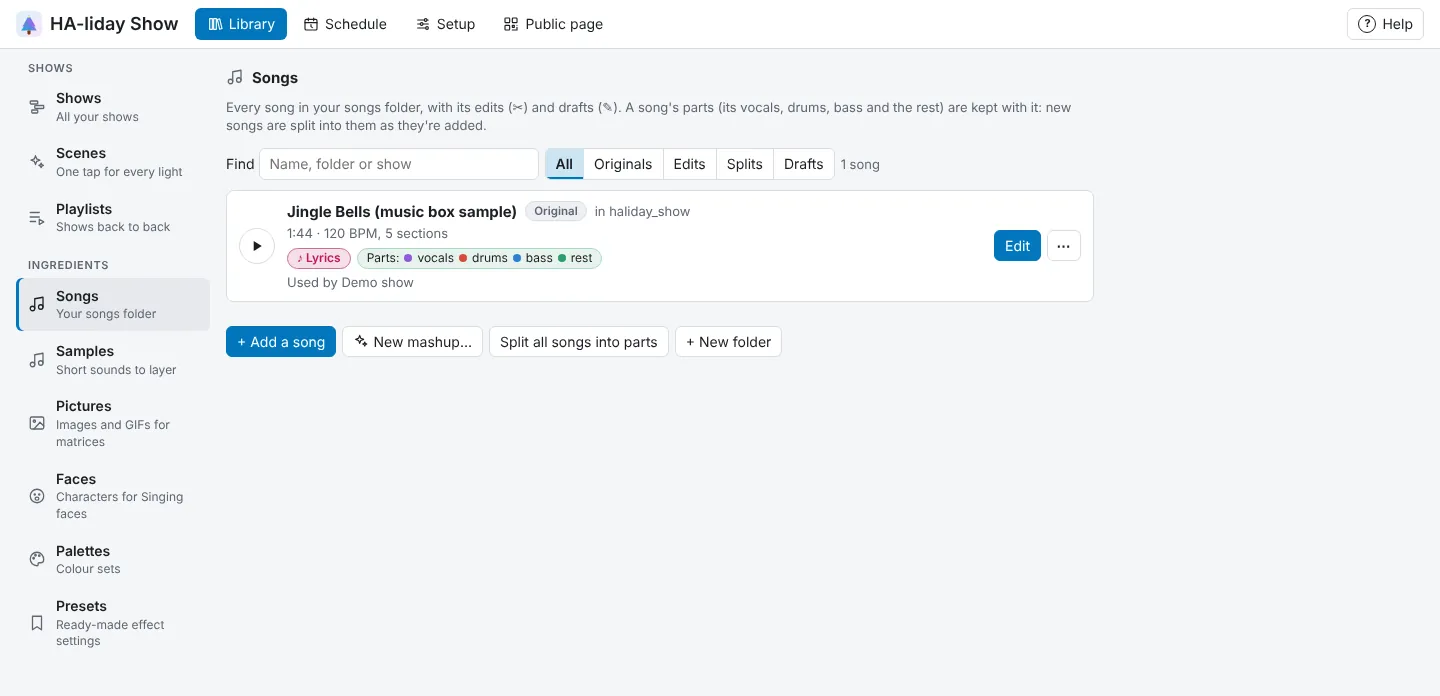
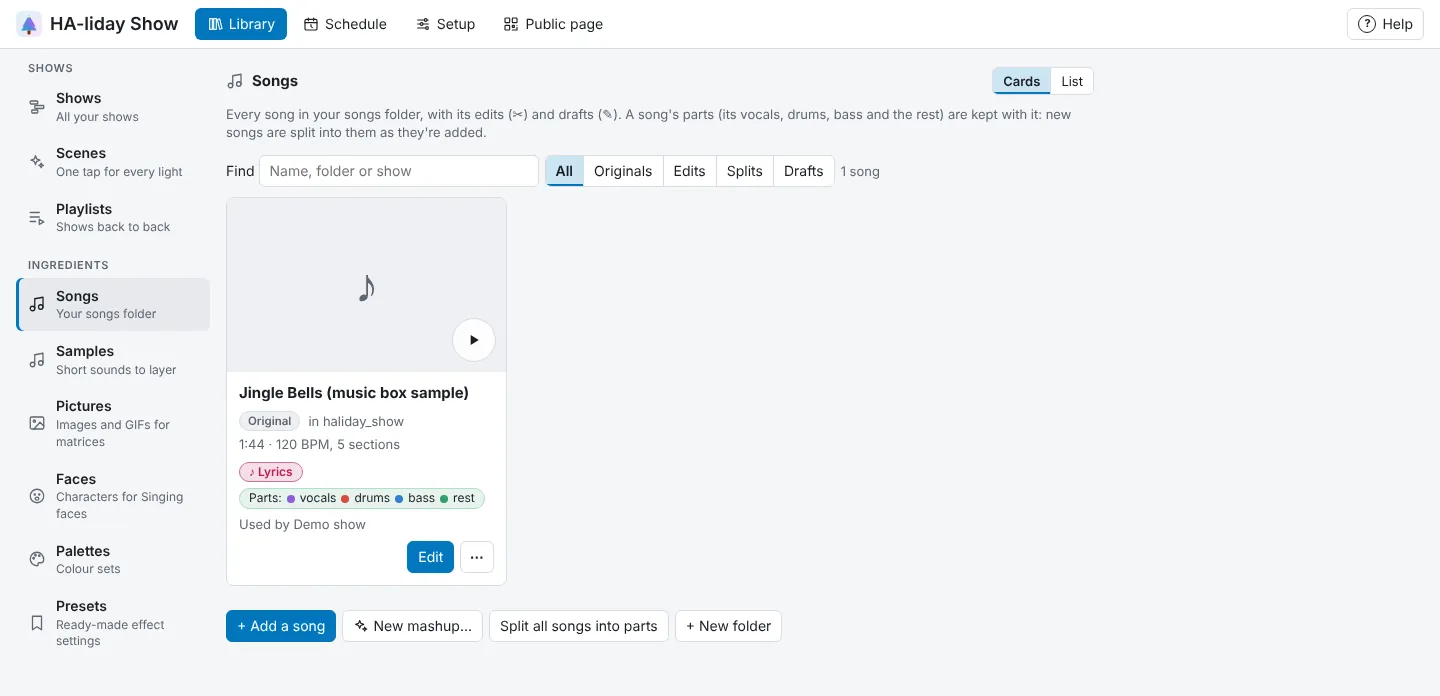
What changed (0.2.506)
Library → Songs as cards, with each song's edits and drafts folded behind a strip in its card.

Claude-Session: https://claude.ai/code/session_01E5sS3WHvfAiAfDENxeeQXa

diff --git a/haliday_show/app/halidayshow/static/js/app.js b/haliday_show/app/halidayshow/static/js/app.js
@@ -72,7 +72,7 @@ import {
   summary as playlistSummary,
 } from "./playlisteditor.js";
 import { addLayoutSwitches } from "./liblayout.js";
-import { familyCount, filterFamilies, songFamilies, songKey, partsText, songRows, splitUsers } from "./songlist.js";
+import { familyCount, filterFamilies, kidsSummary, songFamilies, songKey, partsText, songRows, splitUsers } from "./songlist.js";
 import { addToMore, moreMenu, withMore } from "./rowmenu.js";
 import { askChoice, askText, askYes } from "./ask.js";
 import { movePart } from "./partorder.js";
@@ -9518,7 +9518,7 @@ function drawSongRows() {
     return;
   }
   box.removeAttribute("role");
-  box.replaceChildren(...songFolderSections(fams));
+  box.replaceChildren(...songFolderSections(fams, !!filtered));
   folderize("songs", box, { finding: !!filtered });
   // Drafts whose song has been archived, deleted or moved, so they can still be found and deleted.
   const keys = new Set(songRowsCache.map((r) => r.key));
@@ -9704,7 +9704,7 @@ async function deleteDraft(d) {
 }
 
 // All the songs as one list, each marked by its song for folderize() to sort into folders.
-function songFolderSections(fams) {
+function songFolderSections(fams, finding = false) {
   $("btn-new-folder").disabled = !folderLoaded.songs;
   $("btn-new-folder").title = folderLoaded.songs ? "A folder to sort your songs into, inside the one you're in; the files stay where they are"
     : "Couldn't load your folders just now";
@@ -9713,18 +9713,48 @@ function songFolderSections(fams) {
   box.setAttribute("role", "list");
   box.setAttribute("aria-label", "Your songs");
   box.append(...fams.map((f) => {
-    const card = songFamilyCard(f);
+    const card = songFamilyCard(f, finding);
     card.dataset.folderKey = f.original.key;
     return card;
   }));
   return [box];
 }
 
-function songFamilyCard(f) {
+// As cards, a song's edits, splits and drafts wait behind a strip at the foot of its card ("1 edit · 2 drafts"),
+// opened in place; as a list they always show. While finding or filtering, every card is open so matches show.
+const openSongCards = new Set();
+function songFamilyCard(f, finding = false) {
   const card = document.createElement("div");
   card.className = "song-family";
   card.setAttribute("role", "listitem");
   card.append(songRow(f.original));
+  const inside = kidsSummary(f);
+  const tray = document.createElement("div");
+  tray.className = "song-kids-tray";
+  if (inside) {
+    const key = f.original.key, open = finding || openSongCards.has(key);
+    card.classList.add("has-kids");
+    card.classList.toggle("open", open);
+    tray.id = `song-kids-${Math.random().toString(36).slice(2, 10)}`;
+    const strip = Object.assign(document.createElement("button"), { type: "button", className: "song-kids-toggle" });
+    const what = Object.assign(document.createElement("span"), { className: "song-kids-what", textContent: inside });
+    const how = Object.assign(document.createElement("span"), { className: "hint" });
+    const show = (on) => {
+      card.classList.toggle("open", on);
+      strip.setAttribute("aria-expanded", String(on));
+      how.textContent = on ? "Hide ▴" : "Show ▾";
+    };
+    strip.setAttribute("aria-controls", tray.id);
+    strip.setAttribute("aria-label", `${inside} of ${f.original.name}`);
+    strip.addEventListener("click", () => {
+      const on = !card.classList.contains("open");
+      if (on) openSongCards.add(key); else openSongCards.delete(key);
+      show(on);
+    });
+    strip.append(what, how);
+    show(open);
+    card.append(strip, tray);
+  }
   if (f.edits.length || f.drafts.length) {
     const kids = document.createElement("div");
     kids.className = "song-kids";
@@ -9734,7 +9764,7 @@ function songFamilyCard(f) {
     h.className = "song-kids-head";
     h.textContent = "Edits of this song";
     kids.append(h, ...f.edits.map((e) => editKid(e, f.original)), ...f.drafts.map(draftKid));
-    card.append(kids);
+    tray.append(kids);
   }
   if (f.splits?.length) {
     const kids = document.createElement("div");
@@ -9745,7 +9775,7 @@ function songFamilyCard(f) {
     h.className = "song-kids-head";
     h.textContent = "Split vocals";
     kids.append(h, ...f.splits.map(splitKid));
-    card.append(kids);
+    tray.append(kids);
   }
   return card;
 }
@@ -9981,8 +10011,16 @@ function showThumbEl(id, thumb) {
 function songRow(r) {
   const row = document.createElement("div");
   row.className = "show-row";
-  if (r.cover) row.append(coverImg(r.ref, r.modified));
-  row.append(songPlayButton(r));
+  // Cover art and ▶ together: beside each other in a list, ▶ over the cover on a card. A song with no cover art
+  // gets a ♪ tile on a card.
+  const art = Object.assign(document.createElement("div"), { className: "song-art" });
+  if (r.cover) {
+    const img = coverImg(r.ref, r.modified);
+    img.addEventListener("error", () => art.prepend(songTile()));
+    art.append(img);
+  } else art.append(songTile());
+  art.append(songPlayButton(r));
+  row.append(art);
   const main = document.createElement("div");
   main.className = "show-main";
   const head = document.createElement("div");
@@ -10049,6 +10087,10 @@ function songRow(r) {
   row._songLength = () => songLength(r).then((text) => { len.textContent = text; });
   songSeen ? songSeen.observe(row) : row._songLength();
   return row;
+}
+
+function songTile() {
+  return Object.assign(document.createElement("span"), { className: "song-cover song-tile", textContent: "♪", ariaHidden: "true" });
 }
 
 // Listening in Library → Songs: ▶ on a song's row plays it in the bar along the bottom (#song-player),

diff --git a/haliday_show/app/halidayshow/static/style.css b/haliday_show/app/halidayshow/static/style.css
@@ -1193,6 +1193,40 @@ a.button { text-decoration: none; }
 .song-badge.draft { color: var(--warn); border-color: color-mix(in srgb, var(--warn) 45%, var(--line));
   background: color-mix(in srgb, var(--warn) 12%, var(--panel)); }
 @media (max-width: 720px) { .song-kid { flex-wrap: wrap; } .song-kid .show-actions { width: 100%; } }
+/* As a list, the cover and ▶ sit in the row as before, and the strip that opens a card's edits isn't needed. */
+.song-art { display: contents; }
+.song-tile, .song-kids-toggle { display: none; }
+/* Library → Songs as cards (liblayout.js): cover art across the top with ▶ on it, then the details, then a strip
+   ("1 edit · 2 drafts · Show ▾") that opens the song's edits, splits and drafts inside the card. A closed card
+   with something inside has a small stack of edges under it. */
+#songs-page-list.as-cards-groups > .show-list:not(.folder-list) { grid-template-columns: repeat(auto-fill, minmax(260px, 1fr));
+  align-items: start; gap: 18px 12px; }
+#songs-page-list.as-cards-groups .song-family.has-kids:not(.open) { margin-bottom: 10px;
+  box-shadow: 0 6px 0 -4px var(--track-alt), 0 6px 0 -3px var(--line), 0 12px 0 -8px var(--track), 0 12px 0 -7px var(--line); }
+#songs-page-list.as-cards-groups .song-family.open { border-color: var(--accent); }
+#songs-page-list.as-cards-groups .song-family > .show-row { flex-direction: column; align-items: stretch; gap: 0; padding: 0; }
+#songs-page-list.as-cards-groups .song-art { display: block; position: relative; }
+#songs-page-list.as-cards-groups .song-art > .song-cover { display: flex; width: 100%; height: auto; aspect-ratio: 16 / 10; max-height: 200px;
+  border-radius: 0; object-fit: cover; }
+#songs-page-list.as-cards-groups .song-tile { align-items: center; justify-content: center; font-size: 48px; color: var(--muted); }
+#songs-page-list.as-cards-groups .song-art > .song-play { position: absolute; right: 10px; bottom: 10px; width: 44px; height: 44px;
+  min-width: 44px; background: color-mix(in srgb, var(--panel) 82%, transparent); border-color: var(--line); }
+#songs-page-list.as-cards-groups .song-family > .show-row > .show-main { padding: 10px 12px 4px; gap: 4px; }
+#songs-page-list.as-cards-groups .song-family > .show-row > .show-actions { padding: 4px 12px 12px; justify-content: flex-end; }
+#songs-page-list.as-cards-groups .song-kids-toggle { display: flex; align-items: center; gap: 8px; width: 100%; padding: 10px 12px;
+  border: 0; border-top: 1px solid var(--line); border-radius: 0; background: var(--track); color: var(--text); text-align: left; }
+#songs-page-list.as-cards-groups .song-kids-toggle:hover { background: var(--track-alt); }
+#songs-page-list.as-cards-groups .song-kids-what { flex: 1; min-width: 0; font-size: 13px; }
+#songs-page-list.as-cards-groups .song-family:not(.open) > .song-kids-tray { display: none; }
+#songs-page-list.as-cards-groups .song-kids-head { padding-left: 12px; }
+#songs-page-list.as-cards-groups .song-kid { flex-wrap: wrap; gap: 6px 10px; margin-left: 8px; padding: 8px 10px; }
+#songs-page-list.as-cards-groups .song-kid-mark { align-self: flex-start; padding-top: 2px; }
+#songs-page-list.as-cards-groups .song-kid > .show-main { flex: 1 1 140px; }
+#songs-page-list.as-cards-groups .song-kid > .show-actions { width: 100%; justify-content: flex-end; }
+@media (max-width: 720px) {
+  #songs-page-list.as-cards-groups > .show-list:not(.folder-list) { grid-template-columns: 1fr; }
+  #songs-page-list.as-cards-groups .song-art > .song-cover { max-height: 140px; }
+}
 /* All / Originals / Edits / Drafts beside Find. */
 .seg-buttons { display: inline-flex; border: 1px solid var(--line); border-radius: 6px; overflow: hidden; }
 .seg-buttons button { border: 0; border-radius: 0; background: var(--panel); }

diff --git a/haliday_show/app/halidayshow/static/js/liblayout.js b/haliday_show/app/halidayshow/static/js/liblayout.js
@@ -1,8 +1,10 @@
-// Cards or a list: how Library → Shows, Scenes, Pictures, Faces, Palettes and Presets lay out their items, picked with
+// Cards or a list: how Library → Shows, Songs, Scenes, Pictures, Faces, Palettes and Presets lay out their items, picked with
 // the Cards / List switch above each and remembered for each one in this browser. Cards are the
 // default. The rows are the same either way; the "as-cards" class lays them out as cards (style.css).
 export const CARD_LIBRARIES = {
   shows: { view: "view-shows", list: "#view-shows [data-show-list]", noun: "shows" },
+  // Songs sit in one list among folder rows, so the list inside lays out as cards.
+  songs: { view: "view-songs", list: "#songs-page-list", noun: "songs", groups: true },
   scenes: { view: "view-scenes", list: "#view-scenes [data-scene-list]", noun: "scenes" },
   pictures: { view: "view-pictures", list: "#pictures-list", noun: "pictures" },
   faces: { view: "view-faces", list: "#faces-list, #faces-builtin", noun: "faces" },

diff --git a/haliday_show/app/halidayshow/static/js/songlist.js b/haliday_show/app/halidayshow/static/js/songlist.js
@@ -137,6 +137,13 @@ export function splitUsers(row, drafts) {
   return [...row.usedBy, ...drafts.filter((d) => (d.uses || []).includes(path)).map((d) => `the draft "${d.name}"`)];
 }
 
+// What's inside a song's card, for the strip that opens it: "1 edit · 2 drafts". Empty when nothing is.
+export function kidsSummary(f) {
+  const n = (k, word) => k && `${k} ${word}${k === 1 ? "" : "s"}`;
+  return [n((f.edits || []).length, "edit"), n((f.splits || []).length, "split"), n((f.drafts || []).length, "draft")]
+    .filter(Boolean).join(" · ");
+}
+
 // "3 songs · 2 edits · 1 draft"
 export function familyCount(families) {
   const n = (k, word) => `${k} ${word}${k === 1 ? "" : "s"}`;

diff --git a/haliday_show/app/halidayshow/__init__.py b/haliday_show/app/halidayshow/__init__.py
@@ -1,3 +1,3 @@
 """Govee light-show sequencer: Home Assistant add-on service."""
 
-__version__ = "0.2.505"
+__version__ = "0.2.506"

diff --git a/docs/guide/songs.md b/docs/guide/songs.md
@@ -32,7 +32,13 @@ photo was taken, taken out). **Remove** goes back to the song's cover art. A sho
 tile in its palette's colours with its first letter. Songs are kept exactly as you added them, so their cover art,
 title and artist are never lost.
 
-Each song you added is one card, marked **Original**. Inside it, under **Edits of this song**:
+Each song you added is one card, marked **Original**, with its cover art across the top and **▶** on it
+(a song with no cover art gets a ♪). **Cards** and **List**, at the top right, switch between cards and
+the shorter rows, and remember your choice in this browser. On a card, a song's edits and drafts wait
+behind a strip at its foot that says what's inside, such as **1 edit · 2 drafts**, with a small stack of
+edges under the card. Press the strip (**Show ▾**) to open them in the card, and again (**Hide ▴**) to
+put them away. While you **Find** or pick **Edits**, **Splits** or **Drafts**, every card is open so you
+can see what matched. In the list, they always show. Under **Edits of this song**:
 
 - **✂ Edit · song file** (purple): a song file made in the Music editor from this song, with its length,
   the shows that use it and the [draft](music-editor.md#drafts) it was made from. **Edit draft** reopens that draft. Under **⋯**:

diff --git a/docs/guide/shows.md b/docs/guide/shows.md
@@ -27,8 +27,8 @@ Your shows are under **Library → Shows**, and nothing changes in a show until 
 one you were last editing has a **Last edited** badge. Under that is the show's palette: a strip of its colours
 and the palette's name.
 
-**Library → Shows**, **Scenes**, **Pictures**, **Faces**, **Palettes** and **Presets** show their items as
-cards: each show's picture or cover art (or its palette tile), each scene's or palette's colours, each
+**Library → Shows**, **Songs**, **Scenes**, **Pictures**, **Faces**, **Palettes** and **Presets** show their items as
+cards: each show's picture or cover art (or its palette tile), each song's cover art, each scene's or palette's colours, each
 picture or face, or each preset's moving preview, across the top, with its name and buttons under it. **Cards** and **List**, at the top right of each, switch between
 cards and the shorter rows, and each remembers your choice in this browser. Folders stay full width
 above the cards.

diff --git a/haliday_show/CHANGELOG.md b/haliday_show/CHANGELOG.md
@@ -1,5 +1,15 @@
 # Changelog
 
+## 0.2.506
+
+- **Songs as cards.** **Library → Songs** now shows each song as a card with its cover art across the top
+  and **▶** on it, like **Library → Shows**. **Cards** and **List**, at the top right, switch back to the
+  rows you had before.
+- **A song's edits and drafts fold into its card.** A strip at the foot of a card says what's inside, such
+  as **1 edit · 2 drafts**. Press it to open them in the card, and again to put them away. While you
+  **Find** something or pick **Edits**, **Splits** or **Drafts**, every card is open so you can see what
+  matched.
+
 ## 0.2.505
 
 - **The effect window no longer stretches.** With your browser zoomed (110%, say), the moving previews
